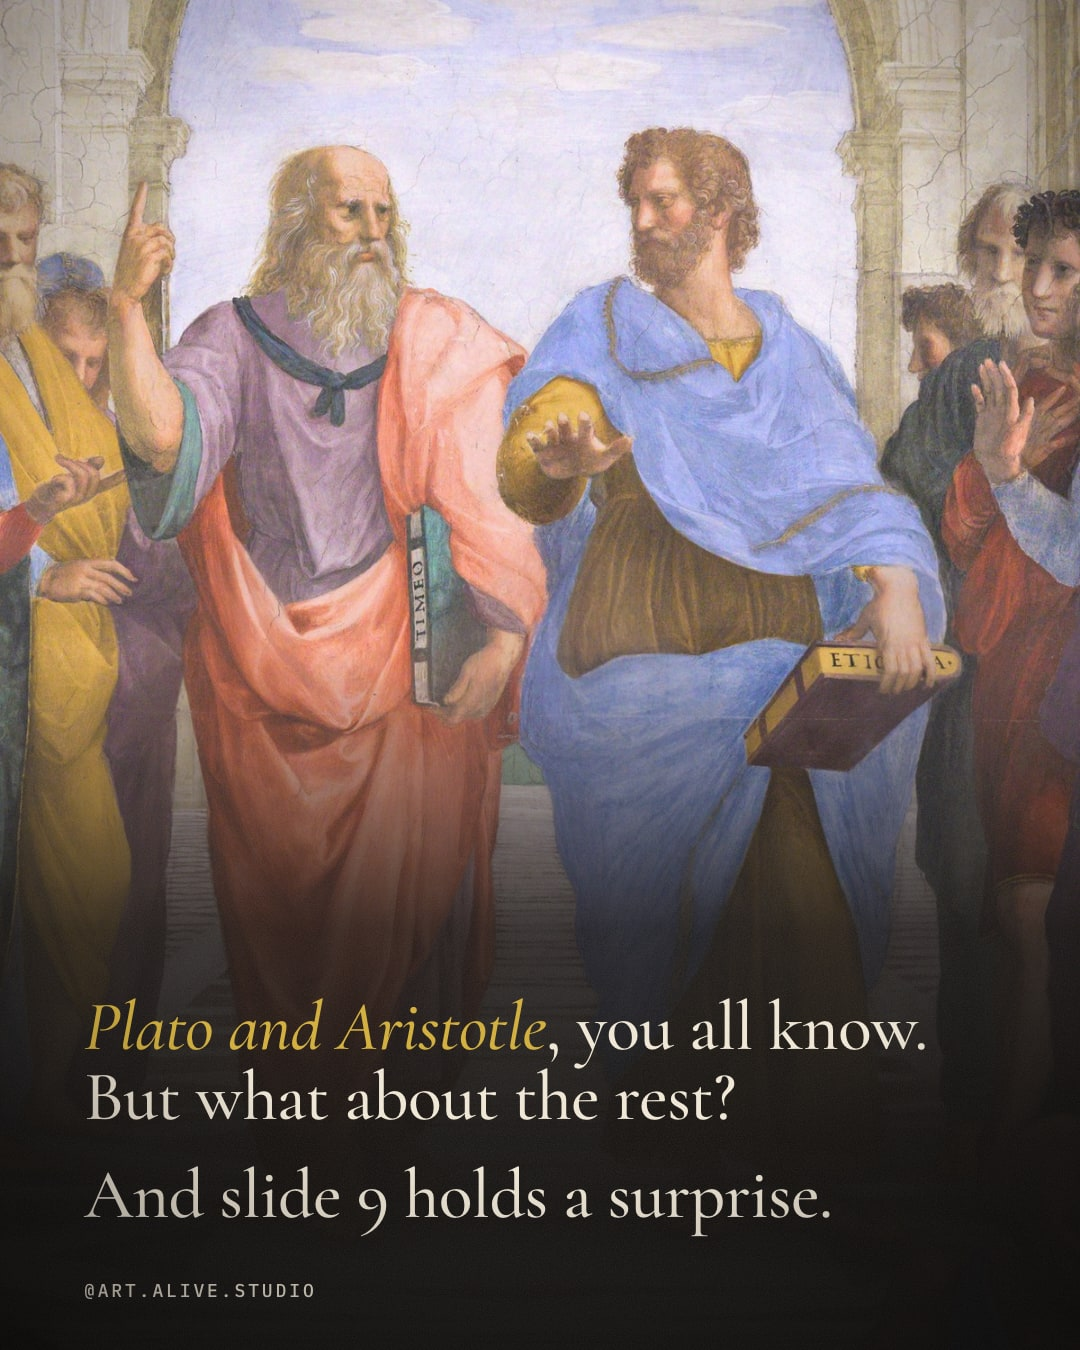
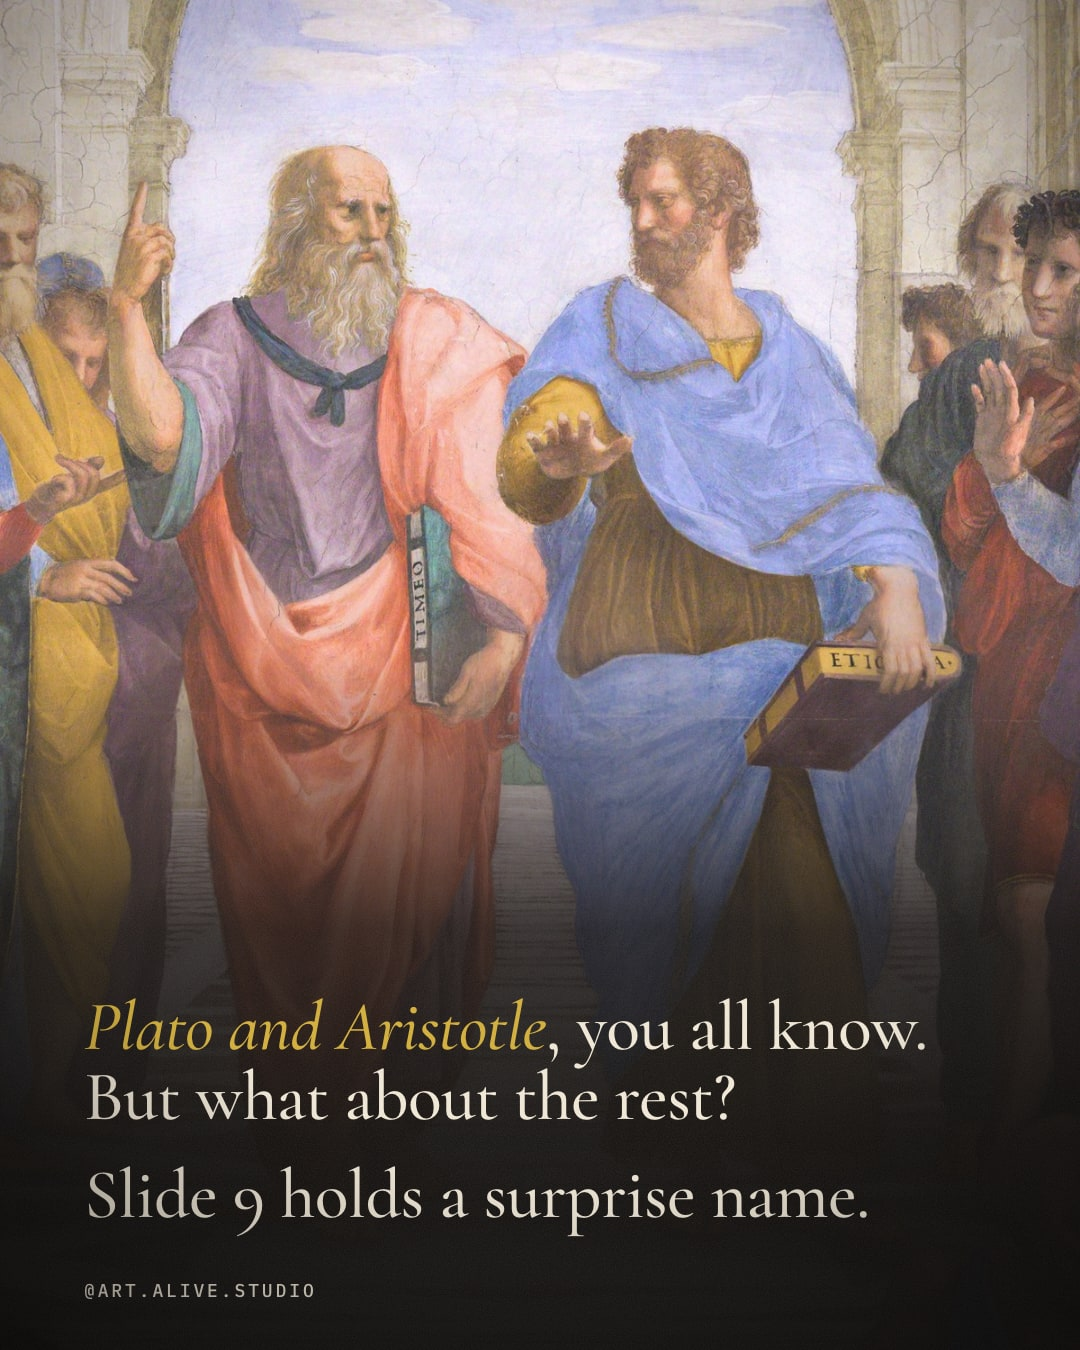
School of Athens: 'Can you recognize them all?' on the cover, 'Slide 9 holds a surprise name.' on slide 2

Changed region(s): [[0.0611, 0.8711, 0.7944, 0.9022]]

diff --git a/channels/art-history/carousels/06-raphael-school-of-athens/slides.html b/channels/art-history/carousels/06-raphael-school-of-athens/slides.html
@@ -35,7 +35,7 @@
   <div class="block bottom">
     <div class="kicker">The greatest gathering in history</div>
     <h1 class="h-xl">Every genius in one <em>room</em>.</h1>
-    <p class="lede"><i>What if the greatest minds in history had all walked into the same room?</i> <span class="y">Raphael</span> painted them together. <span class="y">But can you recognize them?</span></p>
+    <p class="lede"><i>What if the greatest minds in history had all walked into the same room?</i> <span class="y">Raphael</span> painted them together. <span class="y">Can you recognize them all?</span></p>
   </div>
 </section>
 
@@ -44,7 +44,7 @@
   <img class="bleed" src="img/who_plato.jpg">
   <div class="block bottom">
     <h2 class="h-m"><em>Plato and Aristotle</em>, you all know. But what about the rest?</h2>
-    <h2 class="h-m" style="margin-top:28px">And slide 9 holds a surprise.</h2>
+    <h2 class="h-m" style="margin-top:28px">Slide 9 holds a surprise name.</h2>
   </div>
 </section>
 
